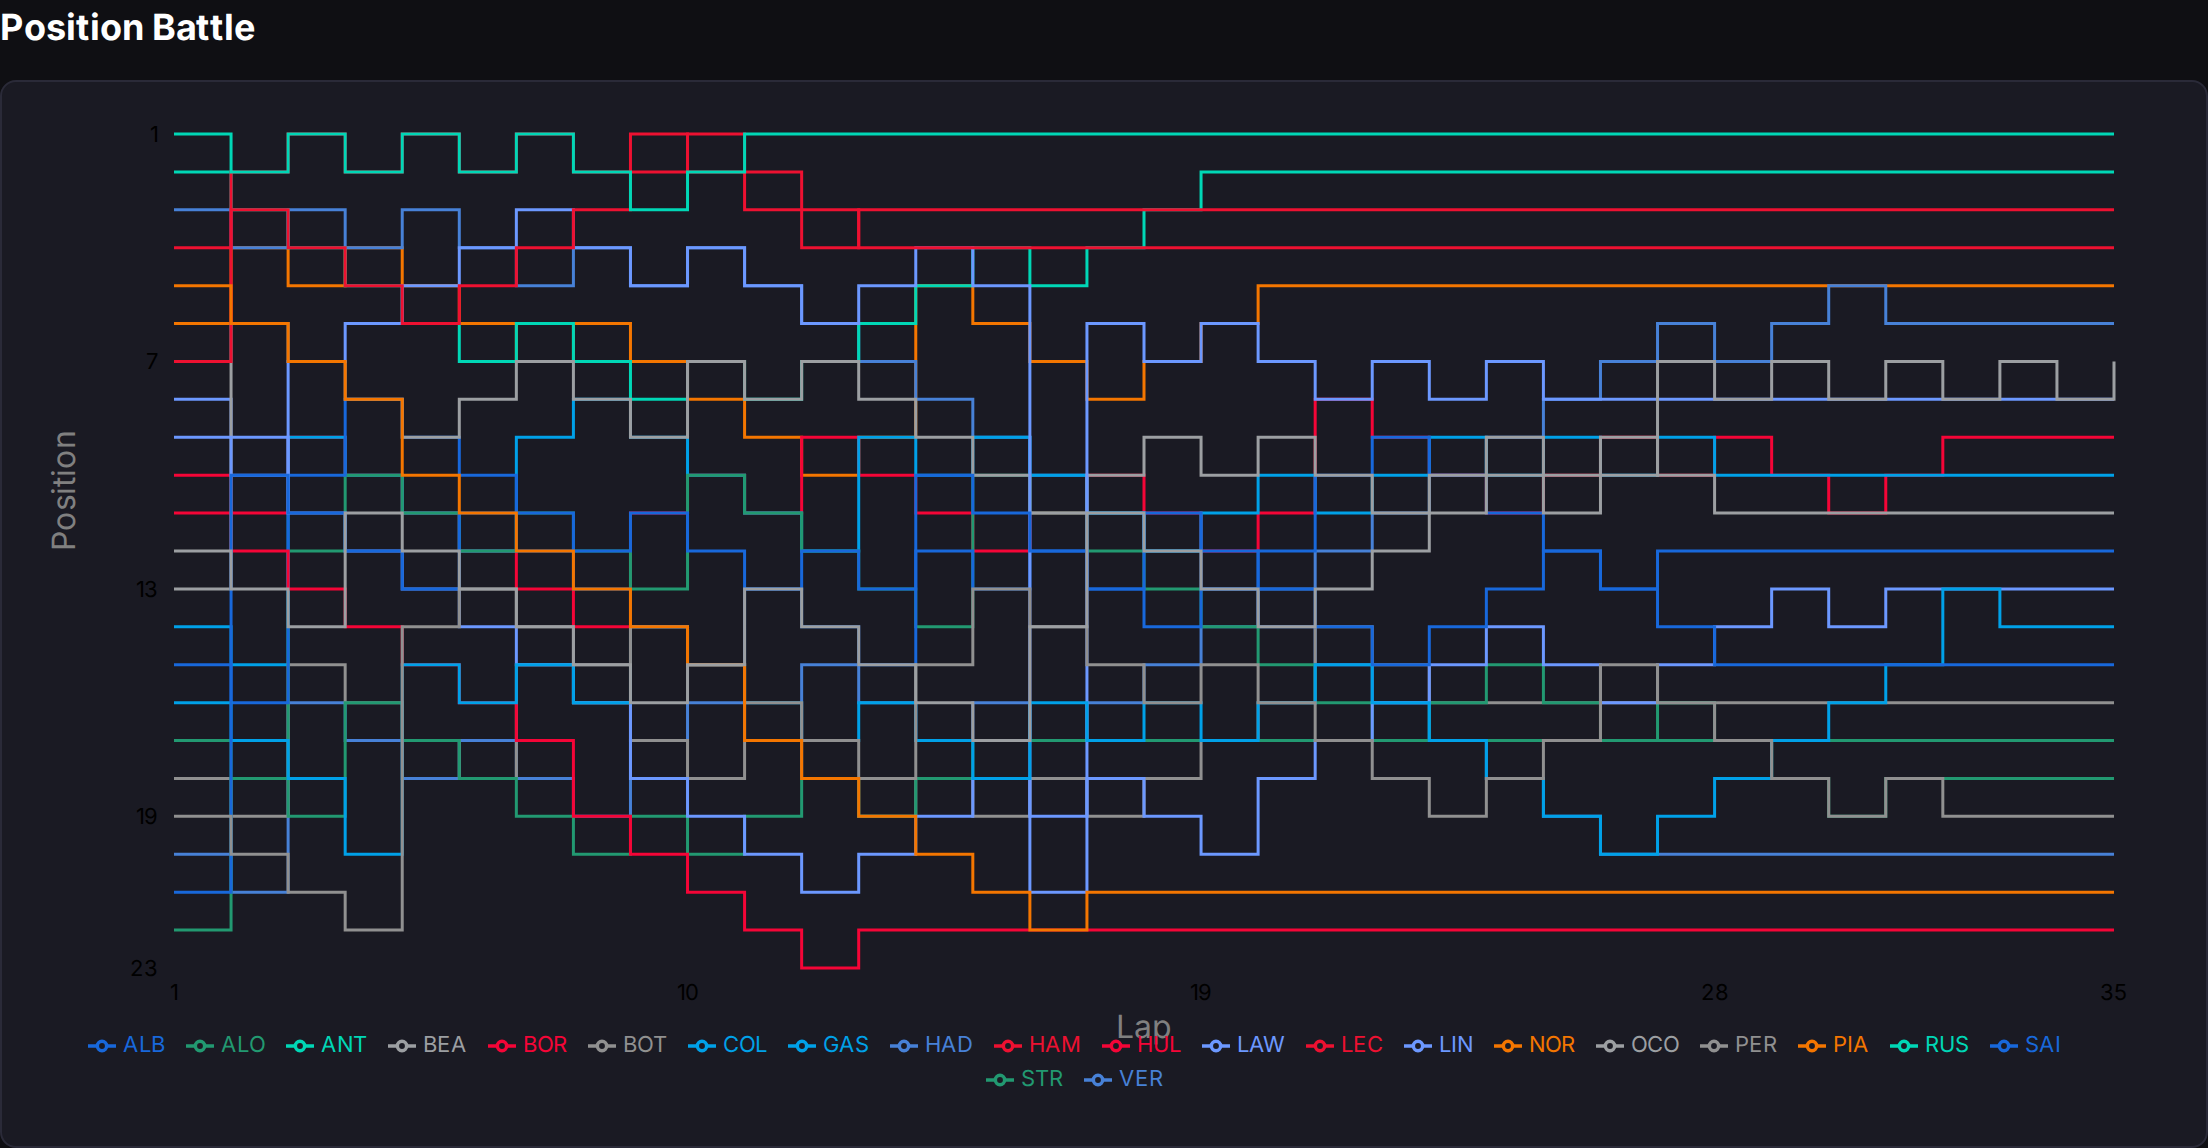
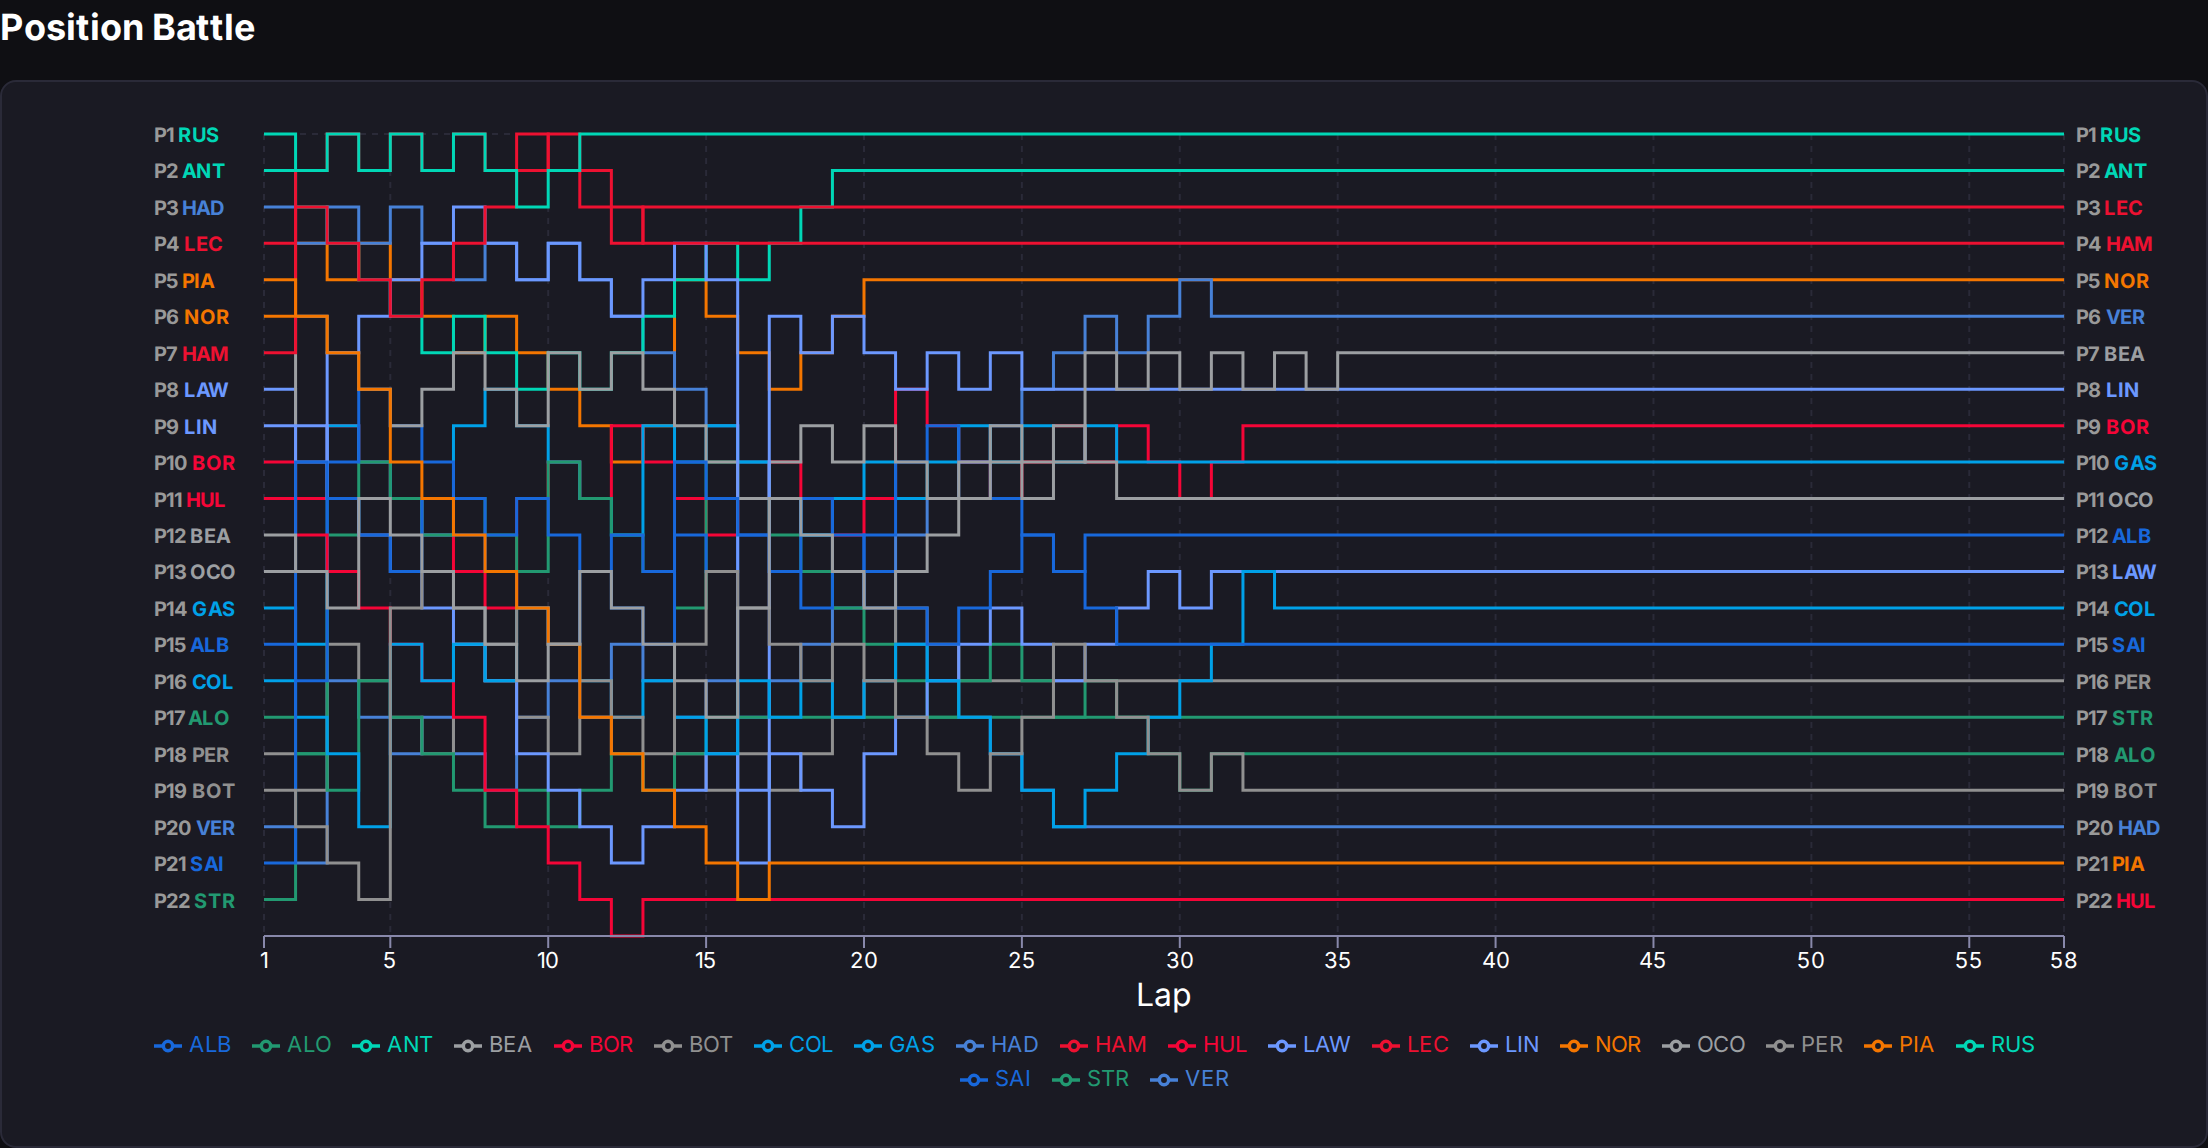
blog: day 21 — analysis UX polish (#55)

Changed region(s): [[0.0625, 0.0915, 0.9688, 0.8537], [0.0312, 0.8537, 0.9375, 0.9451]]

diff --git a/docs/blog/day-21-analysis-ux-polish.md b/docs/blog/day-21-analysis-ux-polish.md
@@ -1,0 +1,101 @@
+# Day 21: Analysis UX Polish — Making Four Charts Tell a Clearer Story
+
+*Posted May 3, 2026 · Karl Kuhnhausen*
+
+---
+
+Day 20 shipped the analysis page. Day 21 makes it actually *good*.
+
+The raw charts from Feature 006 worked, but they had a dozen paper cuts: unreadable axis labels against a dark background, grey bars where tire compounds should be, scrollbars on the strategy swimlanes, and a title that just said "Race Analysis — Round 1" with no indication of which Grand Prix you were looking at. Today was a UX polish pass that touched every chart, plus a backend change to automate analysis data ingestion.
+
+## The Page Header
+
+![Analysis page header showing GP name and circuit](images/day-21-analysis-header.png)
+
+The analysis page now gets the same treatment as the round detail page: a red accent label ("ROUND 1 — RACE ANALYSIS"), the Grand Prix name and circuit in a large bold heading, and a cyan back link that says "← BACK TO ROUND 1 RACE RESULTS" instead of the generic "← Back to Round 1." The GP name and circuit are fetched from the rounds API in parallel with the analysis data, so the page loads just as fast.
+
+## Position Battle — Reading the Race Story
+
+![Position Battle chart with tooltip showing Lap 27 standings](images/day-21-position-battle-tooltip.png)
+
+The Position Battle chart is the heart of the analysis page. Each line traces a driver's position through the race, colored by team. The chart tells you everything about the competitive narrative at a glance:
+
+- **Left labels (starting grid)**: Who qualified where. P1 RUS at the top means Russell started from pole.
+- **Right labels (finishing order)**: Who finished where. Compare left to right to see who gained or lost positions.
+- **Line crossings**: Every intersection is an overtake or position swap. Clusters of crossings indicate safety car restarts or pit stop windows.
+- **Flat horizontal sections**: Stable running, no position changes. Long flat sections usually mean the drivers were in clean air.
+- **Step changes**: The lines use step-after interpolation, so position changes appear as sharp vertical jumps rather than diagonal lines. This makes it clear exactly which lap a move happened on.
+
+**The tooltip** shows all drivers' positions at the hovered lap, sorted P1 to P22 with grey position numbers and team-colored acronyms. A dashed cursor line marks the hovered lap.
+
+**Y-axis ticks are gone.** The starting grid and finishing order labels on both sides make the Y-axis redundant. Removing the ticks reduces visual clutter and lets the lines breathe.
+
+## Gap to Leader — Where the Race Was Won
+
+![Gap to Leader chart](images/day-21-gap-chart.png)
+
+The gap chart shows each driver's time deficit to the leader, lap by lap. It answers the question: "How close was the race, really?"
+
+- **Lines converging toward zero**: A battle for the lead. When two lines nearly touch at zero, the trailing driver is right behind.
+- **Lines diverging**: The leader pulling away. A widening gap means the leading car had superior pace.
+- **Sharp spikes upward**: Pit stops. The driver drops 20-30 seconds while in the lane, then the line settles back to their true pace deficit. These aren't errors — they're real data showing exactly when each driver pitted.
+- **Sudden convergence of the entire field**: Safety car or red flag. Everyone bunches up behind the safety car, compressing gaps to near-zero.
+
+The gap chart shares the same 5-lap x-axis tick intervals and white axis labels as the position chart for visual consistency.
+
+## Tire Strategy — Who Ran What, and When
+
+![Tire Strategy swimlane chart](images/day-21-tire-strategy.png)
+
+The tire strategy chart shows each driver's stint sequence as horizontal bars. Drivers are sorted by finishing position (race winner at the top), and their three-letter abbreviation is colored by team.
+
+**Compound colors**: Red for soft, gold for medium, grey for hard, green for intermediate, blue for wet. A dark grey "UNKNOWN" compound appears when OpenF1 doesn't report the tire for the opening stint — a known data gap we handle gracefully rather than crashing.
+
+**How to read it**:
+- Count the bars per driver to see how many pit stops they made.
+- Compare bar lengths to understand stint duration — a very short stint usually means a problem (puncture, damage, or an undercut that didn't work).
+- Look for strategic divergence: did the top three all use the same strategy, or did someone win on a different compound sequence?
+- The x-axis spans the full race distance with the same 5-lap ticks, so you can cross-reference with the position chart to see how strategy affected the race.
+
+## Pit Stops — Finding the Slow Stops
+
+![Pit Stop timeline](images/day-21-pit-stops.png)
+
+The pit stop timeline shows every pit stop as a dot on the race timeline, with dot size proportional to duration. The chart adapts based on available data:
+
+- **When crew stop duration is available** (the time the car is stationary): dots represent stop duration, the slow threshold is 5 seconds, and the tooltip shows "X.Xs stop."
+- **When only lane duration is available** (total time through the pit lane): dots represent lane duration, the slow threshold shifts to 30 seconds, and the tooltip shows "X.Xs lane."
+
+Cyan dots indicate normal stops. Red dots indicate slow stops (above the threshold). A large red dot is immediately visible — that's where something went wrong: a stuck wheel nut, a driver overshot the box, or the crew fumbled a tire.
+
+Drivers are sorted by finishing position, matching the tire strategy chart, so you can scan vertically to correlate pit timing with strategy and race positions.
+
+## The Dark Theme Problem
+
+Every axis label, tick mark, and tooltip in the original charts used `hsl(var(--foreground))` for text color. This is the standard Tailwind v4 approach — except Tailwind v4's CSS variables store raw hex values like `#ffffff`, not HSL channels. So `hsl(#ffffff)` renders as invisible or dark text.
+
+The fix was straightforward: use direct hex values everywhere in Recharts inline styles. `#ffffff` for primary text, `#8888aa` for axis strokes, `#999999` for the position number labels, `rgba(26, 26, 35, 0.85)` for tooltip backgrounds with `backdropFilter: 'blur(4px)'` for the frosted glass effect.
+
+## Automated Analysis Ingestion
+
+Until today, populating analysis data required manually running the backfill CLI from inside the AKS cluster (Cosmos DB's firewall blocks external access). That's fine for initial population but unsustainable for an ongoing season.
+
+The new **AnalysisScheduler** is an in-process goroutine that runs inside the API server:
+
+1. **Polls every 15 minutes** for finalized Race/Sprint sessions.
+2. **Waits 90 minutes** after each session's end time before attempting to fetch (giving OpenF1 time to publish).
+3. **Checks `HasAnalysisData()`** first — if data already exists, it skips (idempotent).
+4. **Retries up to 4 times** at 30-minute intervals if a fetch fails (data might not be available yet).
+5. Runs alongside the existing calendar, standings, and session pollers with the same lifecycle.
+
+This means new race analysis data will appear automatically within ~2 hours of each session ending, with no manual intervention. The scheduler is calendar-aware — it only triggers when sessions have actually completed, not on a blind cron schedule.
+
+## What's Next
+
+The analysis page is in a good place now. The remaining gaps are data availability: the Chinese GP sprint and Miami GP race haven't been backfilled yet (they need to run from inside the cluster). Once we deploy this build with the analysis scheduler, those will populate automatically on the next poll cycle.
+
+Circuit maps would be a nice addition to the page header — showing the track layout alongside the GP name and circuit. That's a separate feature for another day.
+
+---
+
+[← Day 20: The Session Deep Dive — Telling the Story of a Race in Four Charts](day-20-session-deep-dive.md)

diff --git a/README.md b/README.md
@@ -65,6 +65,7 @@ This project is being built in public, with architecture decisions and progress 
 ### Feature 6: Session Deep Dive
 
 - [Day 20: The Session Deep Dive — Telling the Story of a Race in Four Charts](docs/blog/day-20-session-deep-dive.md)
+- [Day 21: Analysis UX Polish — Making Four Charts Tell a Clearer Story](docs/blog/day-21-analysis-ux-polish.md)
 
 ## Architecture Direction
 

diff --git a/docs/blog/day-20-session-deep-dive.md b/docs/blog/day-20-session-deep-dive.md
@@ -119,4 +119,4 @@ Tooltips on the Position Battle chart sort drivers by position (P1 first), and o
 
 ---
 
-[← Day 19: The Session Recap Strip — Summarizing a Weekend at a Glance](day-19-session-recap-strip.md)
+[← Day 19: The Session Recap Strip — Summarizing a Weekend at a Glance](day-19-session-recap-strip.md) · [Day 21: Analysis UX Polish →](day-21-analysis-ux-polish.md)
